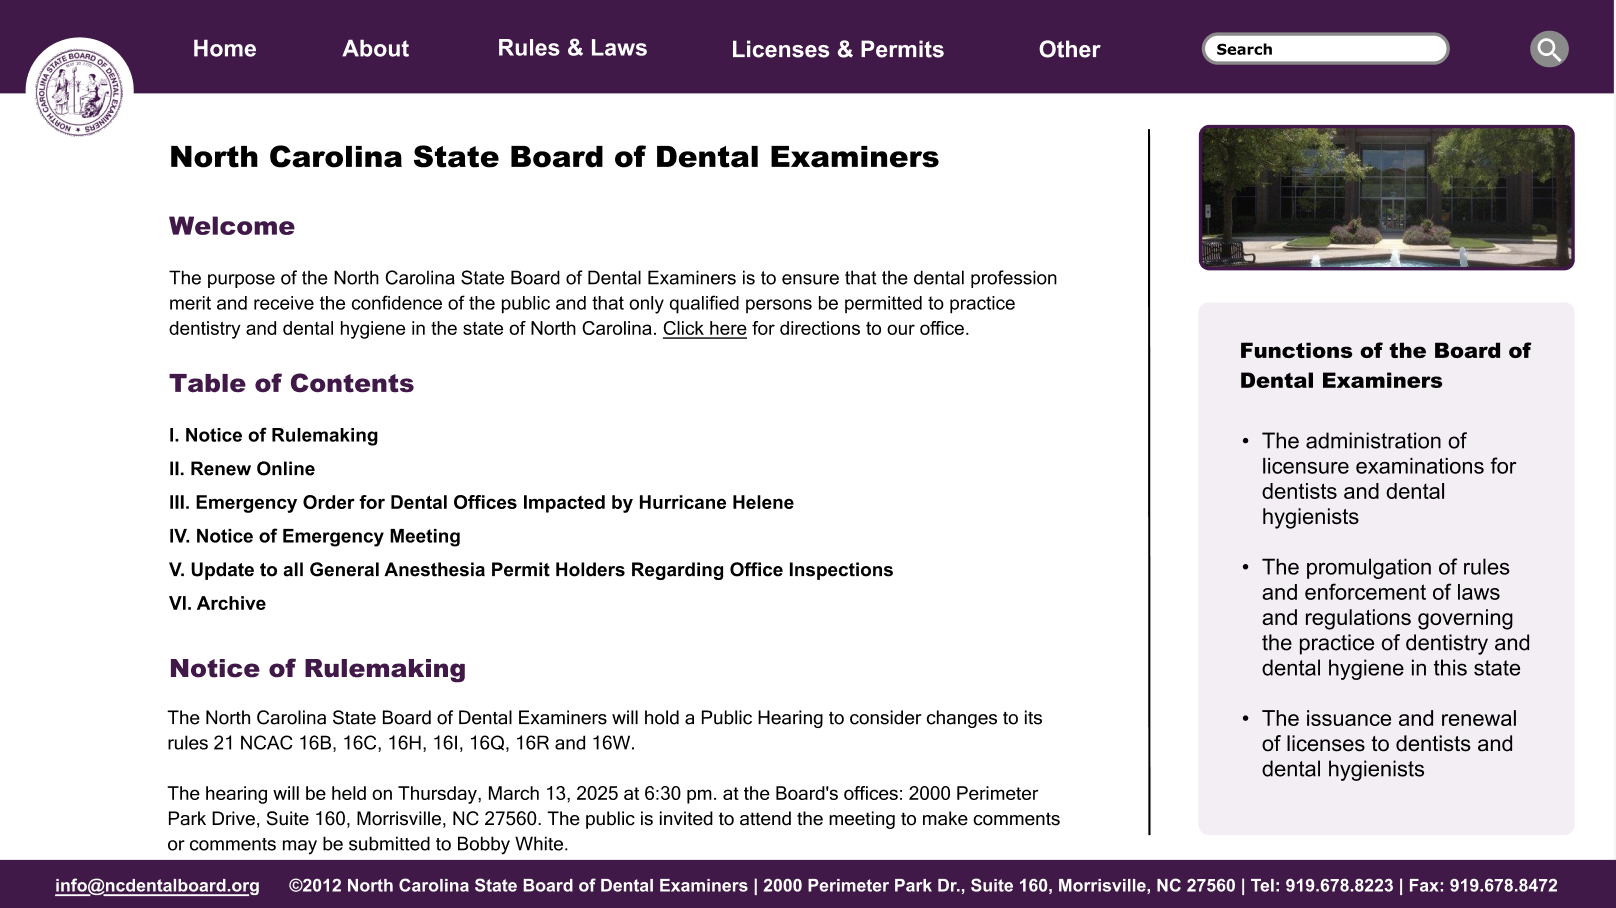
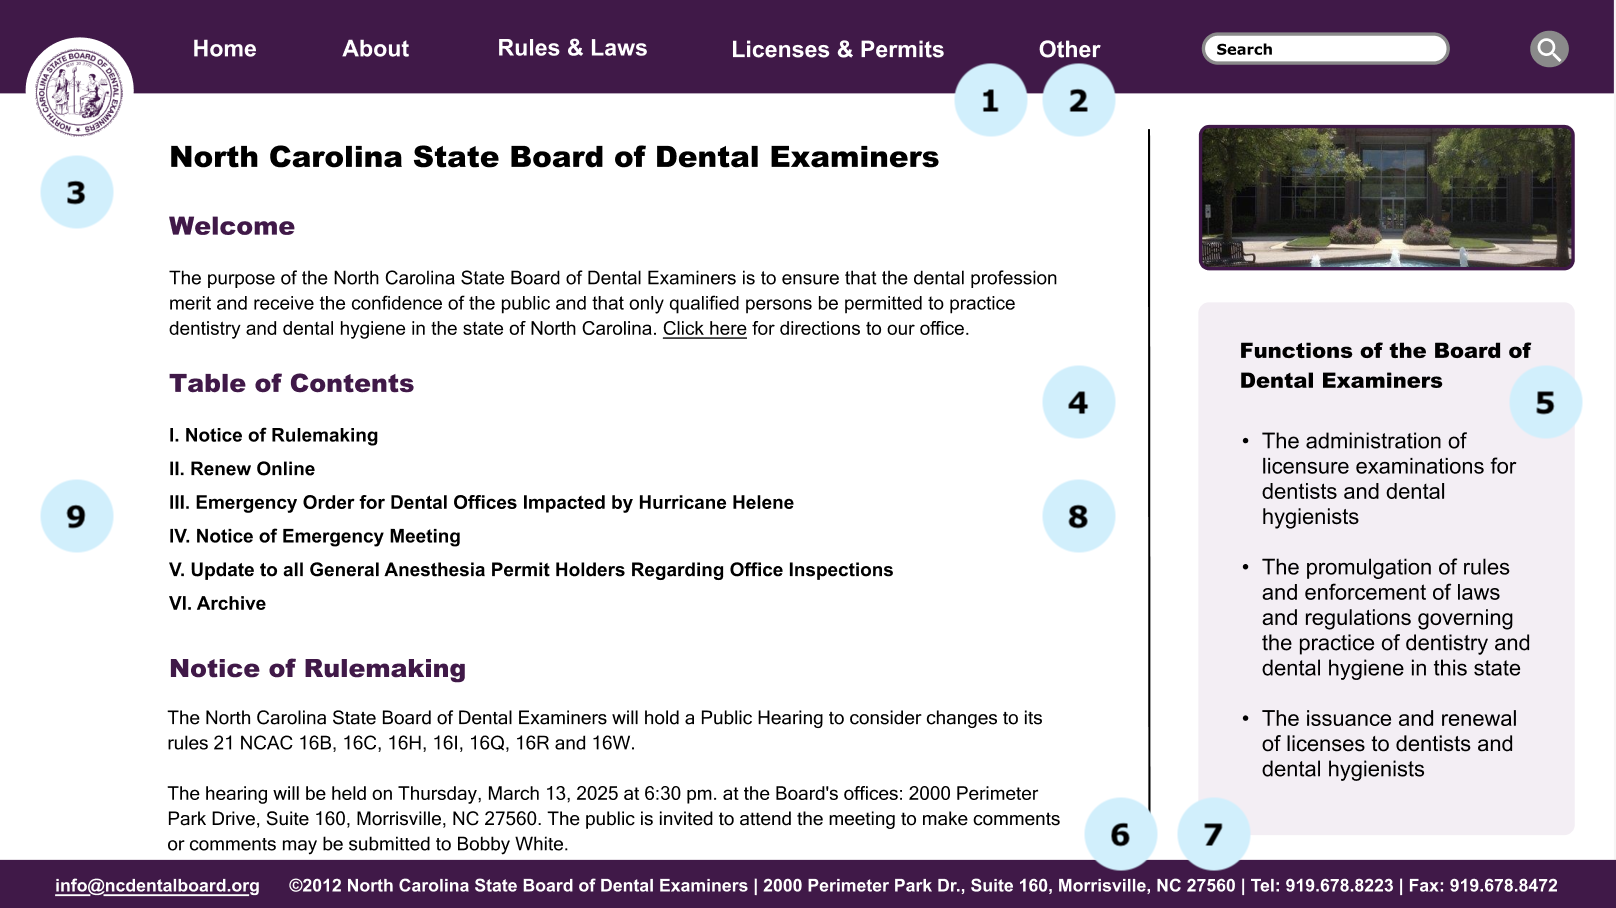
Checkpoint 1

diff --git a/index.html b/index.html
@@ -396,7 +396,12 @@
             <a
               href="https://www.figma.com/design/xepPLByYeBk62SktIQbAAP/Responsive-Redesign%3A-Mockups?node-id=0-1&t=35Yh78ogCzKtLB2L-1"
               target="_blank"
-              style="display: flex; flex-direction: column; align-items: center"
+              style="
+                display: flex;
+                flex-direction: column;
+                align-items: center;
+                padding-top: 20px;
+              "
               ><img
                 src="public/redesign-computer-mockup.png"
                 width="60%"
@@ -404,6 +409,75 @@
                 alt="Screenshot of Computer Figma Mockup"
             /></a>
             <p class="cap">Computer (3840x2160px)</p>
+            <div class="ann-txt">
+              <ol>
+                <li>
+                  Unlike the tablet and mobile displays, on the computer
+                  display, the main groups for the navigation options are
+                  displayed along the header. As shown in the Figma mockups,
+                  when you hover on an option, its font become slightly darker,
+                  and when you click on one of these options, a popup window
+                  appears and displays the links within that group.
+                </li>
+                <li>
+                  Like on tablet and mobile, the header is sticky, and remains
+                  at the top of the page as you scroll. This keeps the
+                  navigation accessible on all parts of the page, unlike on the
+                  original page, where you have to scroll back up to the top.
+                </li>
+                <li>
+                  The header will be layed out as a grid on the outside with two
+                  columns. The first column will only contain the logo, and it
+                  will be fixed to be the exact same width as the margin of the
+                  text in the content down below. This will ensure that the logo
+                  never overlaps with text as the user scrolls. The right column
+                  in this outer grid will be the rest of the header, and will
+                  itself be a flexbox with row display and space-around
+                  justification, to allow each nav option and the space bar to
+                  rearrange themselves based on screen width.
+                </li>
+                <li>
+                  The main content of the page will be a grid with two columns.
+                  The left column contains the main content, and will scroll
+                  vertically but not horizontally. There should be no horizontal
+                  overflow, as the text should wrap to the next line. The right
+                  column contains an image and the 'Functions of the Board...',
+                  and will be sticky and will not scroll with the page.
+                </li>
+                <li>
+                  This sticky right column, containing an image and the
+                  'Functions of the Board...', will itself be a grid with two
+                  rows. This will allow the image and the textbox to fit to
+                  adjust the height of the screen.
+                </li>
+                <li>
+                  The footer will also be sticky, and remain visible at the
+                  bottom of the page as the user scrolls. This keeps the
+                  NCSBDE's contact information visible at all times.
+                </li>
+                <li>
+                  The footer itself will also be layed out as a flexbox with row
+                  display, and space-around justification. This will allow each
+                  piece of contact information to space itself out.
+                </li>
+                <li>
+                  The text size of the main paragraph content on computer is
+                  20px, but will not scale down to 15px for tablet until the
+                  screen's width is less than 1100 pixels. This will ensure that
+                  the font size doesn't change if the user enlarges or shrinks
+                  their window on their computer by a little bit, which could be
+                  disorienting.
+                </li>
+                <li>
+                  The left and right margins of the computer display will not be
+                  hard-coded pixels values, instead they will be based on
+                  viewport width so that they adjust automatically to the width
+                  of the screen. The top and bottom margins will be set with
+                  pixels, given that they should not be dependent on the
+                  viewport height.
+                </li>
+              </ol>
+            </div>
           </div>
         </div>
       </div>
